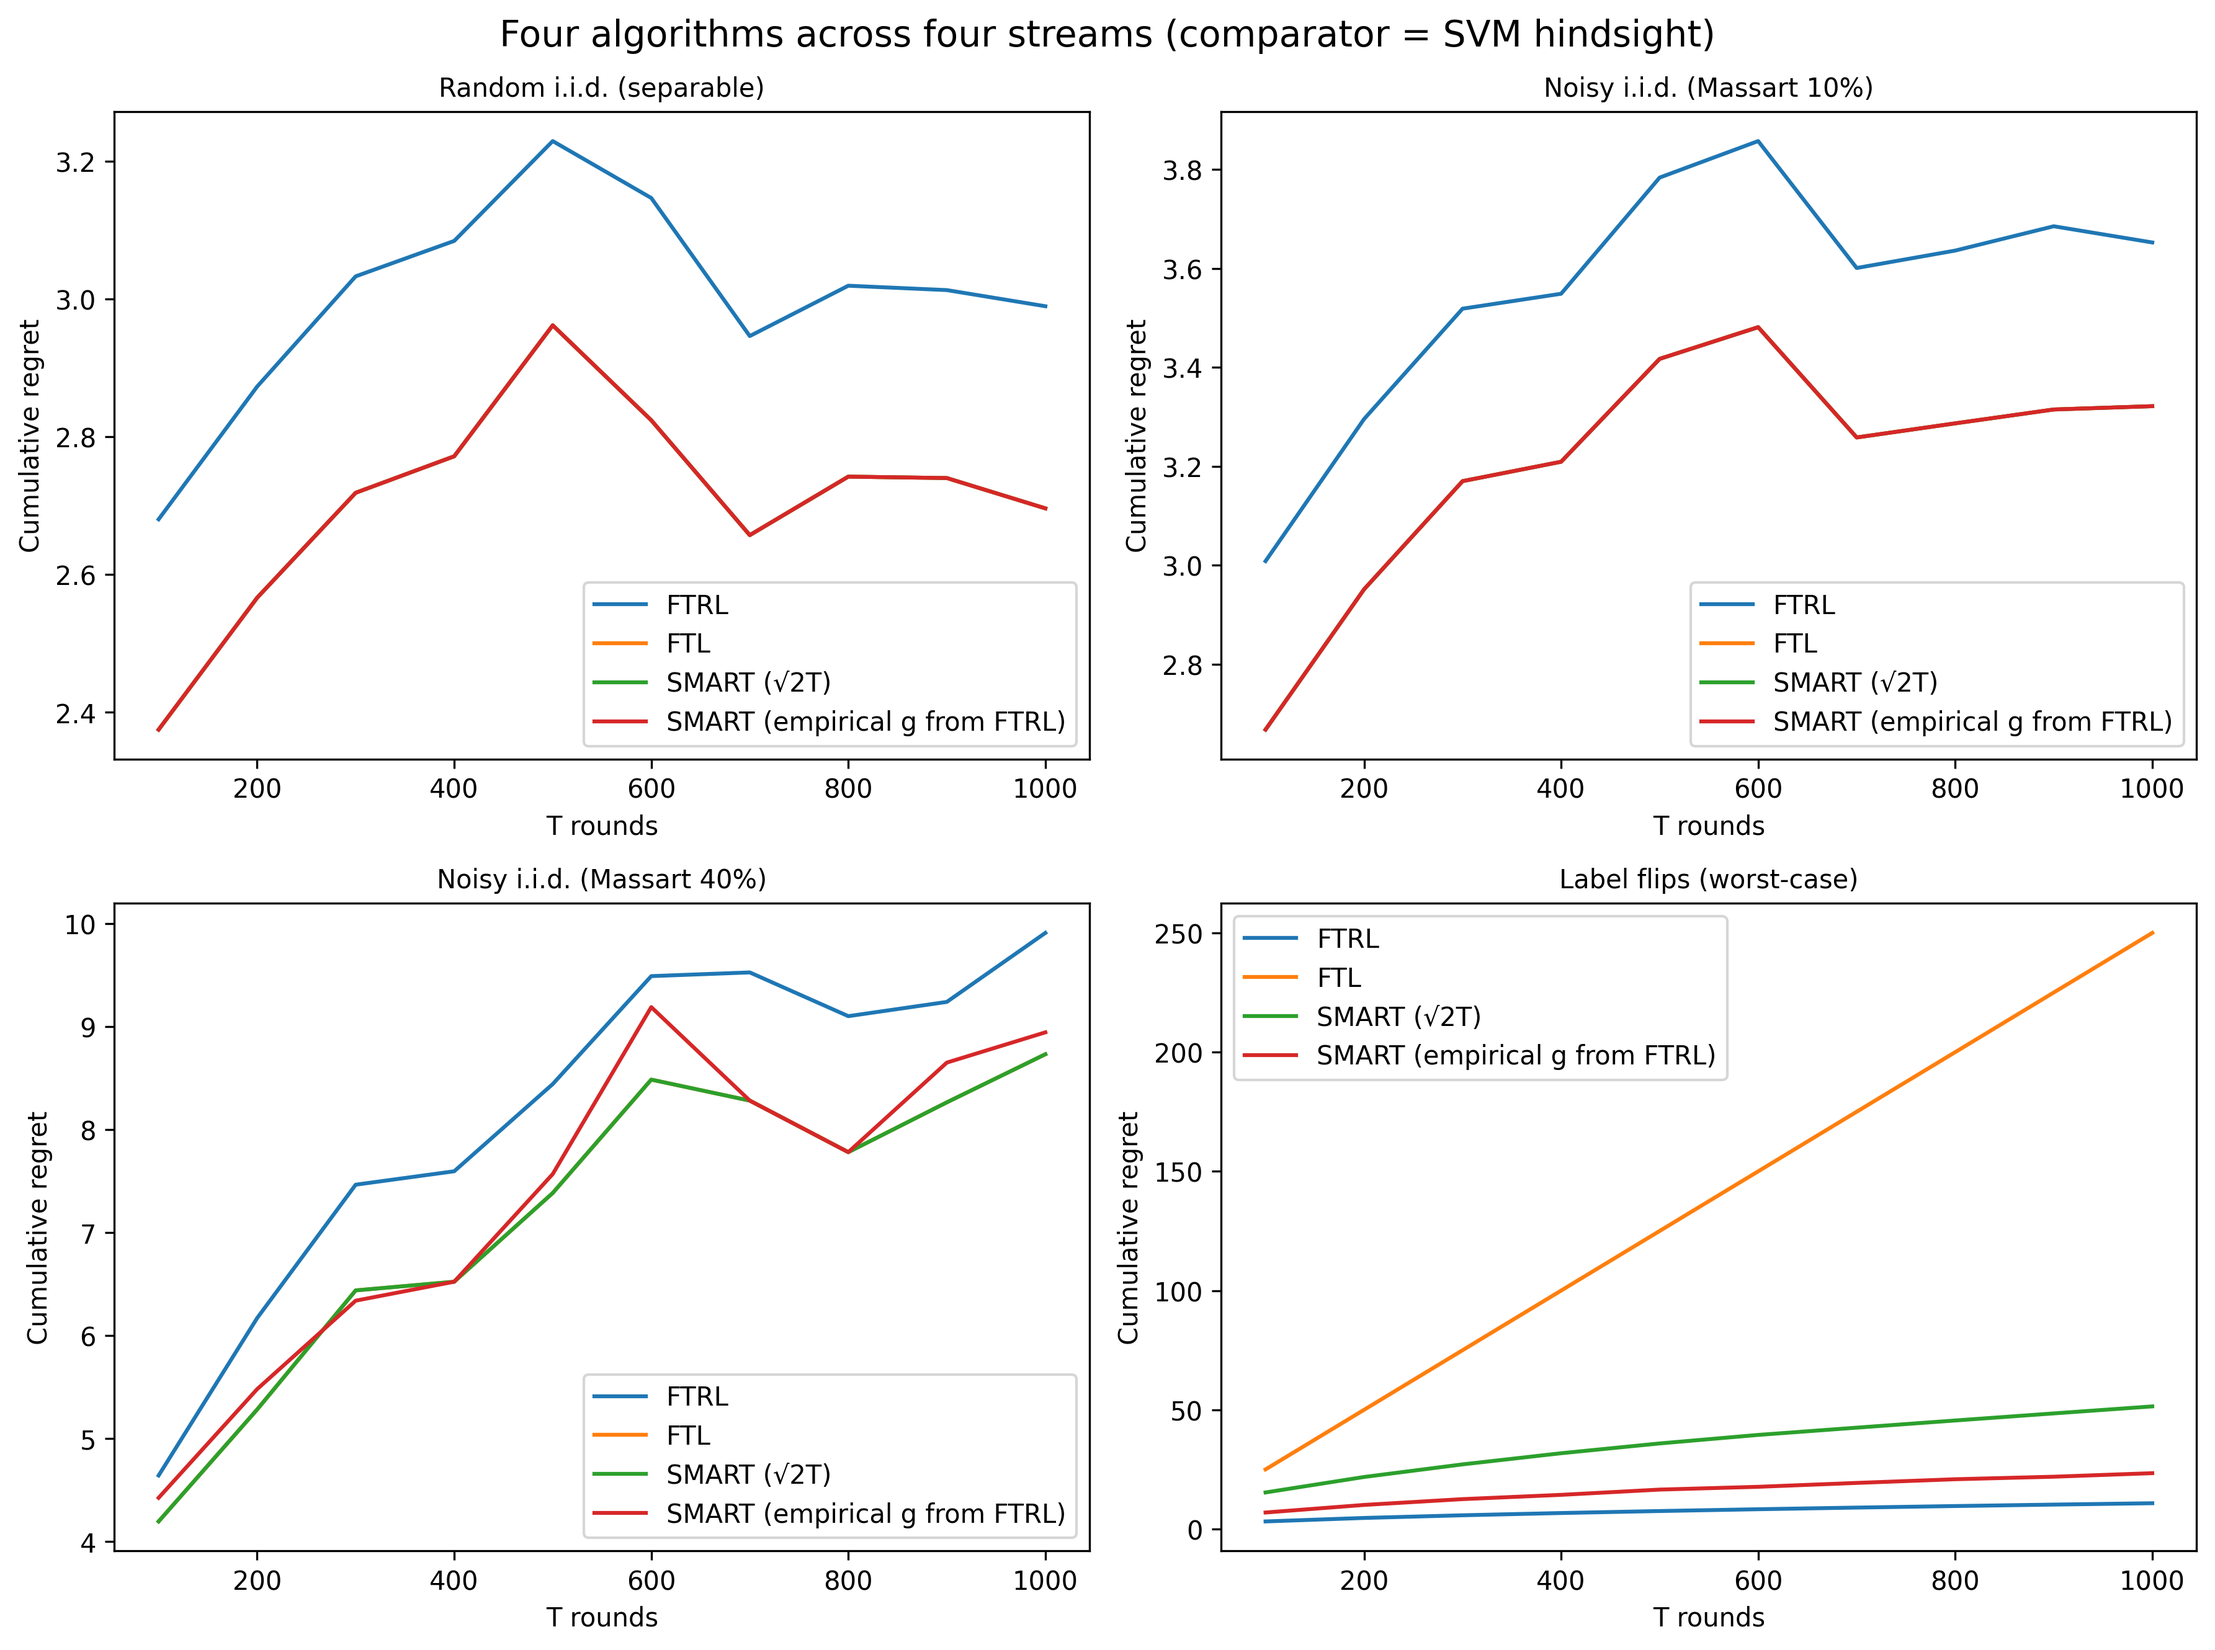
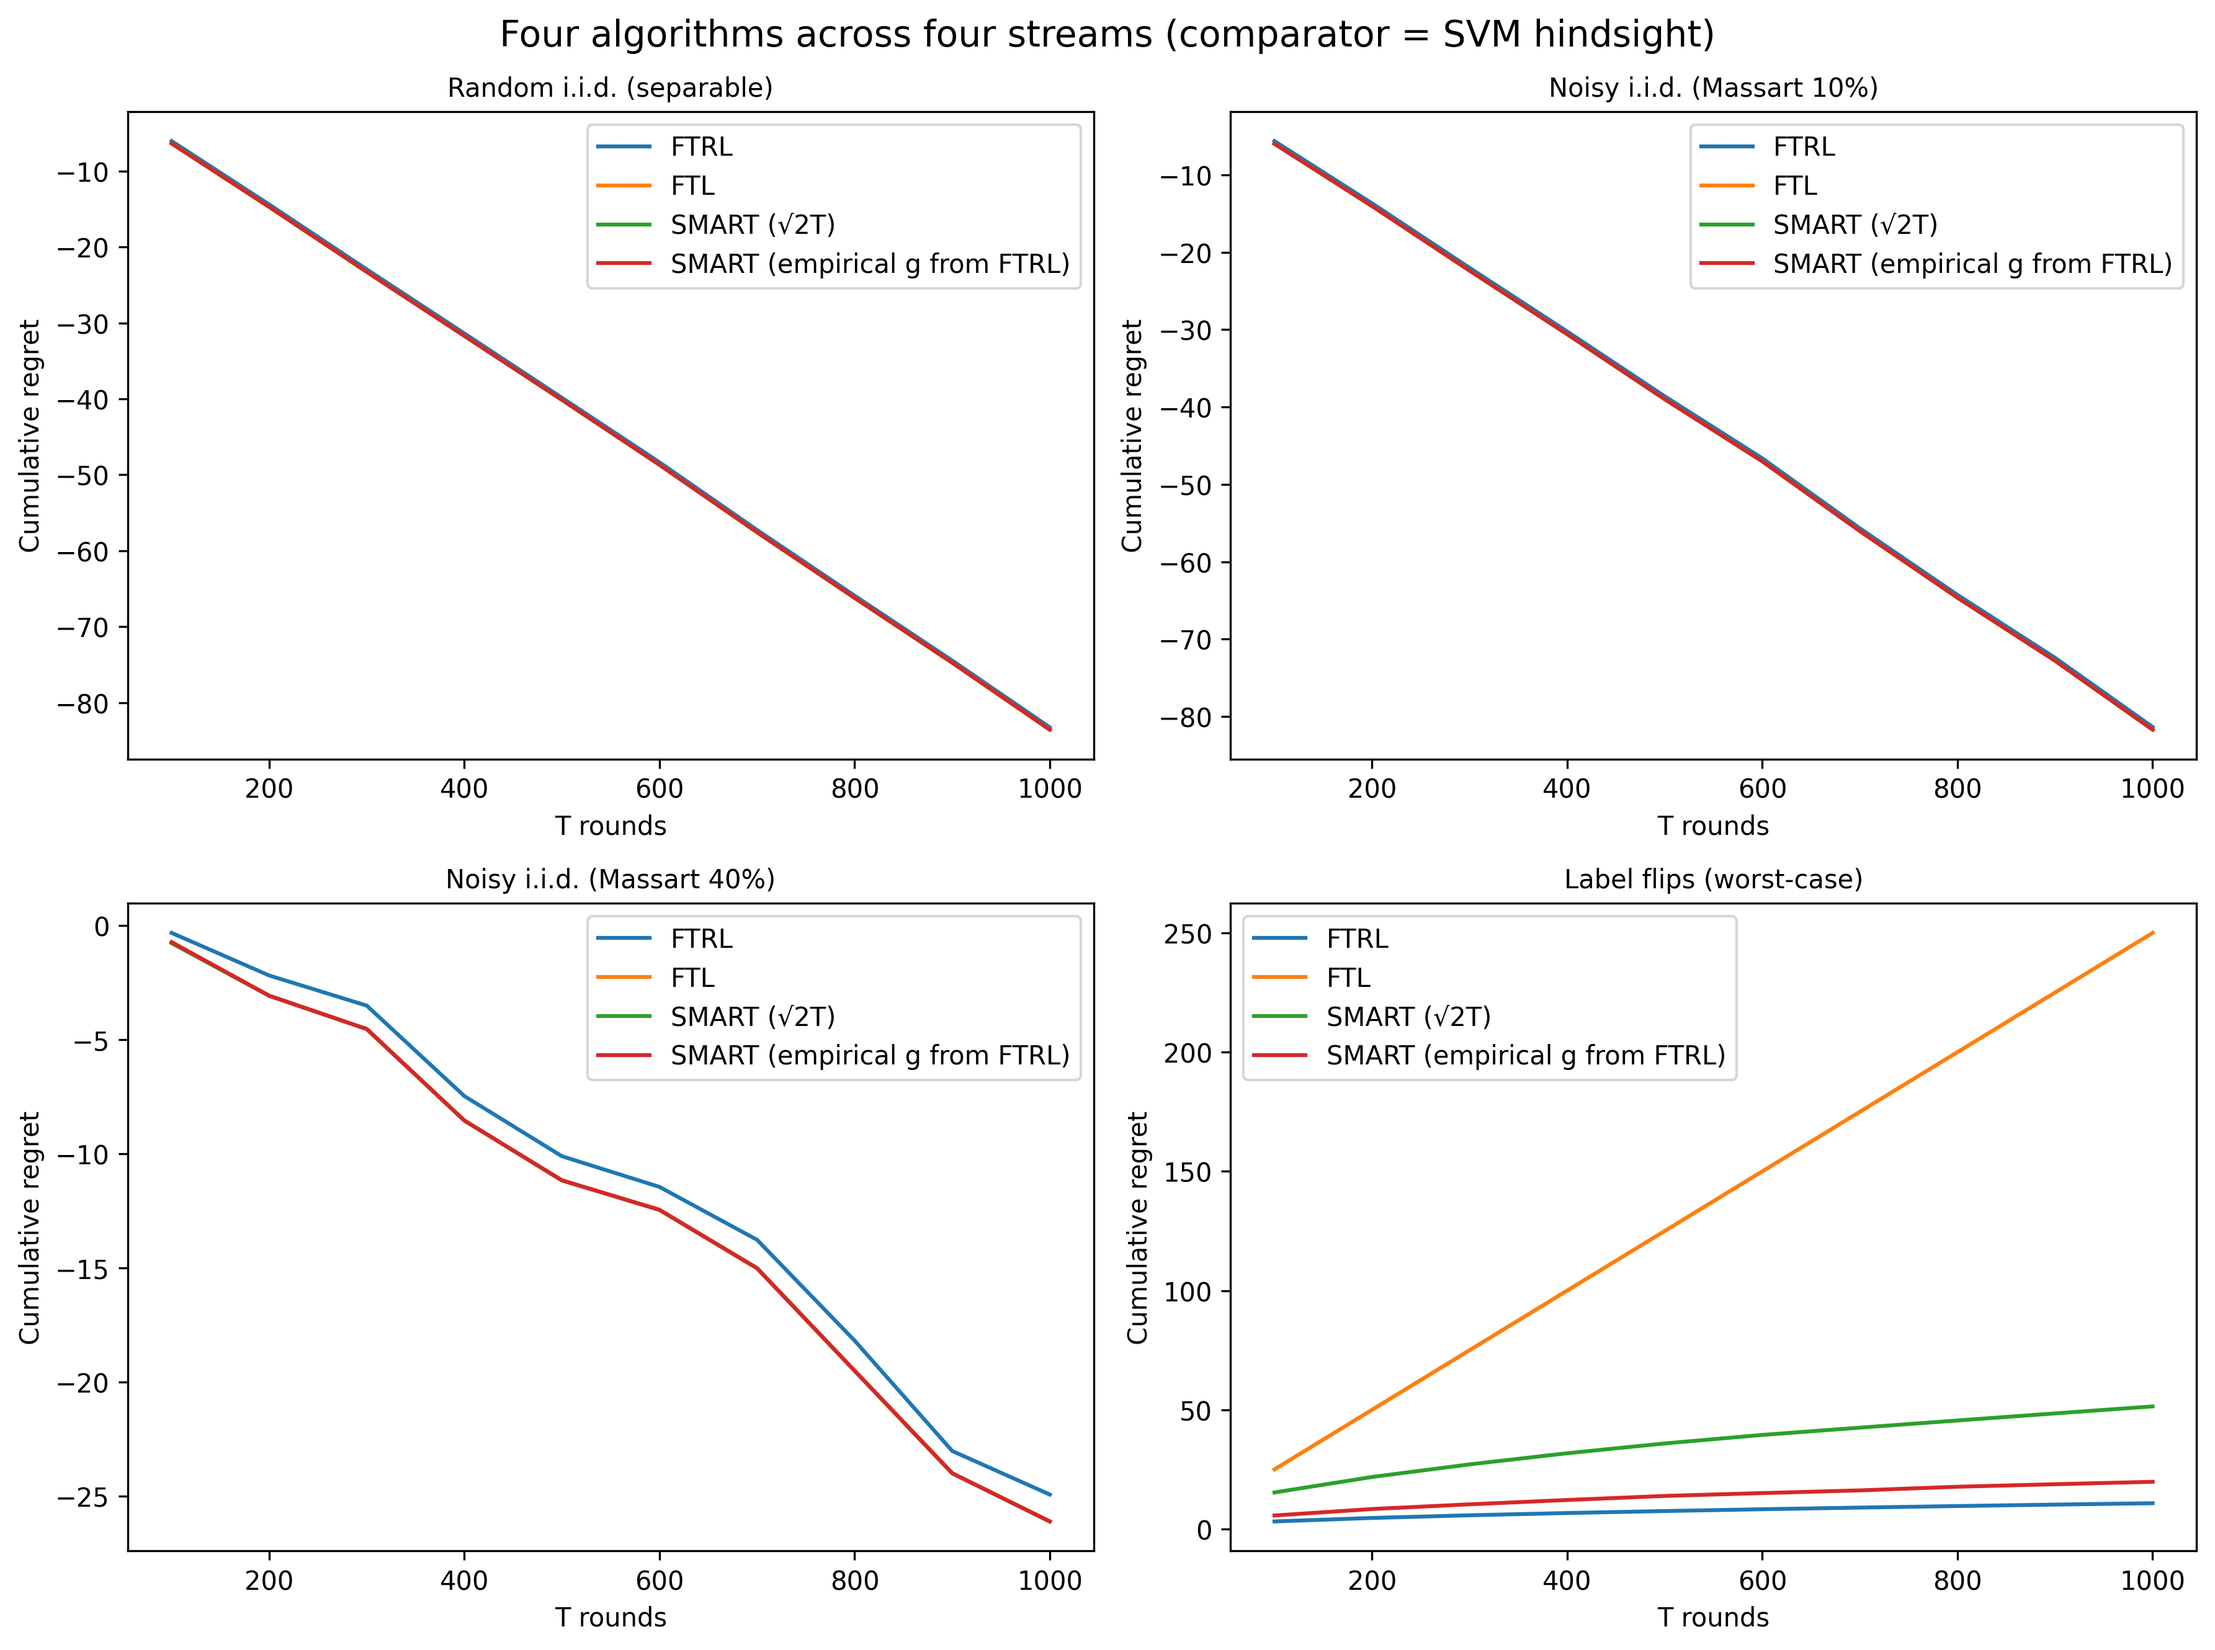
Update SVM implementation with enhanced hindsight comparator and loss function options; replace previous pegasos_svm function with a more flexible best_action_in_hindsight_svm function. Update algorithm comparison images.

diff --git a/oco.py b/oco.py
@@ -140,36 +140,110 @@ def simulate_empirical_g_SMART(z, y, u_comp, theta_emp, *, R=1.0, eta0=math.sqrt
     return simulate_SMART_like(z, y, u_comp, theta_thresh=theta_emp, R=R, eta0=eta0)
 
 # ==============================================================
-# Soft-margin SVM (Pegasos) for hindsight comparator
+# Soft-margin SVM for hindsight comparator
 # ==============================================================
 
-def pegasos_svm(X, y, *, lam, iters=None, batch_size=None, R=1.0, seed=0, epochs=100):
-    N, d = X.shape
-    batch_size = batch_size or min(100, N)
-    if iters is None:
-        iters = max(1, int(epochs * N / batch_size))  # ~epochs passes
-    rng = np.random.default_rng(seed)
-    w = np.zeros(d)
+def best_action_in_hindsight_svm(z: np.ndarray,
+                                 y: np.ndarray,
+                                 *,
+                                 R: float = 1.0,
+                                 C: float = 1.0,
+                                 seed: int = 0,
+                                 loss: str = "squared_hinge",
+                                 lam: float | None = None,
+                                 max_iters: int = 5000,
+                                 tol: float = 1e-7) -> np.ndarray:
+    """
+    Compute the hindsight comparator u* over the L2-ball {u: ||u|| <= R} by
+    minimizing an SVM-style empirical loss.
 
-    for t in range(1, iters + 1):
-        idx = rng.integers(0, N, size=batch_size)
-        Xb, yb = X[idx], y[idx]
-        margin = yb * (Xb @ w)
-        viol   = margin < 1.0
+    Objective (default, smooth):
+        min_{||u||<=R}  (lam/2)*||u||^2 + (1/N)*∑ (max(0, 1 - y_i z_i^T u))^2
 
-        eta = 1.0 / (lam * t)
-        if np.any(viol):
-            w = (1 - eta * lam) * w + (eta / batch_size) * (Xb[viol].T @ yb[viol])
-        else:
-            w = (1 - eta * lam) * w
+    Alternative:
+        set loss='hinge' to minimize (lam/2)||u||^2 + (1/N)*∑ max(0, 1 - y_i z_i^T u)
+        via projected subgradient.
 
-        w = project_to_ball(w, R)
-    return w
+    Notes:
+      - lam defaults to 1/C (constant wrt T). This avoids the horizon-dependent
+        comparator you had with lam=1/(C*N).  # (replaces previous behavior)
+      - Uses project_to_ball(...) already defined in this file.
+      - Deterministic (no SGD mini-batching).
+    """
+    import math
+    import numpy as np
+    from numpy.linalg import norm
 
-def best_action_in_hindsight_svm(z: np.ndarray, y: np.ndarray, *, R: float = 1.0, C: float = 1.0, seed: int = 0) -> np.ndarray:
-    N = len(y)
-    lam = 1.0 / max(C * N, 1.0)
-    return pegasos_svm(z, y, lam=lam, R=R, seed=seed)
+    z = np.asarray(z, dtype=float)
+    y = np.asarray(y, dtype=float).reshape(-1)
+    y = np.sign(y); y[y == 0] = 1.0  # ensure ±1 labels
+
+    N, d = z.shape
+    Zy = z * y[:, None]             # margins: Zy @ u = y * (z·u)
+
+    # Regularization weight: keep independent of T by default
+    lam = (1.0 / max(C, 1e-12)) if lam is None else float(lam)
+
+    def proj_ball(x: np.ndarray) -> np.ndarray:
+        n = norm(x)
+        return x if (n == 0.0 or n <= R) else (R / n) * x
+
+    if loss.lower() == "squared_hinge":
+        # ----- FISTA for smooth objective (squared hinge) -----
+        # Safe Lipschitz constant: L <= lam + (2/N)*||Zy||_F^2
+        L = lam + (2.0 / N) * float((Zy * Zy).sum())
+        step = 1.0 / max(L, 1e-12)
+
+        u = np.zeros(d)
+        v = u.copy()
+        t = 1.0
+
+        for _ in range(1, max_iters + 1):
+            m = Zy @ v                 # margins y_i z_i^T v
+            s = 1.0 - m
+            active = (s > 0.0).astype(float)
+            # grad = lam*v - (2/N) * Zy^T[(1 - m)_+]
+            grad = lam * v - (2.0 / N) * (Zy.T @ (s * active))
+
+            u_next = proj_ball(v - step * grad)
+
+            t_next = 0.5 * (1.0 + math.sqrt(1.0 + 4.0 * t * t))
+            v = u_next + ((t - 1.0) / t_next) * (u_next - u)
+
+            if norm(u_next - u) <= tol * max(1.0, norm(u)):
+                u = u_next
+                break
+
+            u, t = u_next, t_next
+
+        return u
+
+    elif loss.lower() == "hinge":
+        # ----- Projected subgradient for nonsmooth hinge -----
+        # Use a conservative base step from a crude Lipschitz bound
+        L_approx = lam + float((Zy * Zy).sum()) / max(1, N)
+        base = 1.0 / max(L_approx, 1e-12)
+
+        u = np.zeros(d)
+        for k in range(1, max_iters + 1):
+            m = Zy @ u
+            active = (m < 1.0).astype(float)
+            subgrad = lam * u - (1.0 / N) * (Zy.T @ active)
+
+            eta = base / math.sqrt(k)  # 1/√k schedule
+            u_next = proj_ball(u - eta * subgrad)
+
+            if np.linalg.norm(u_next - u) <= tol * max(1.0, np.linalg.norm(u)):
+                u = u_next
+                break
+
+            u = u_next
+
+        return u
+
+    else:
+        raise ValueError("loss must be 'squared_hinge' or 'hinge'")
+
 
 # ==============================================================
 # Streams (revamped 5-case suite)
